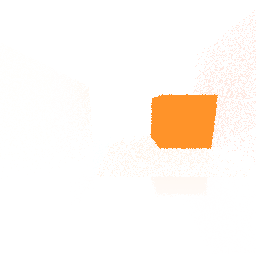
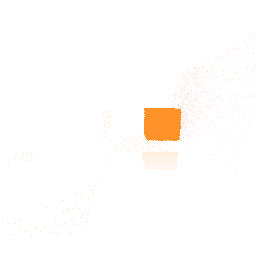
sync kinda works now with patched vulkano

Changed region(s): [[0.5312, 0.0625, 1.0, 0.625], [0.4062, 0.4375, 0.4375, 0.5]]

diff --git a/src/bin.rs b/src/bin.rs
@@ -1286,29 +1286,24 @@ void main() {
             camera_position: campos,
             camera_rotation: rotation,
         };
-
+        println!("start");
         let gpubuffer = AutoCommandBufferBuilder::primary_one_time_submit(
             //start
             device.clone(),
             queue.family(),
         )
-        .unwrap()
+            .unwrap()
         .dispatch(
             [(WIDTH / 8) as u32, (HEIGHT / 8) as u32, RPP as u32],
             compute_pipeline.clone(),
             (sets[image_num].clone()),
             gen_push_const(campos, right, up, forward, framenum),
         )
-        .unwrap()
-        .dispatch(
-            [(WIDTH / 8) as u32, (HEIGHT / 8) as u32, 1],
-            compute_pipeline2.clone(),
-            (set2[image_num].clone()),
-            (),
-        )
-        .unwrap()
+            .unwrap()
         .build()
-        .unwrap();
+            .unwrap();
+
+        println!("end");
 
         let prefuture = previous_frame_end
             .take()
@@ -1316,7 +1311,9 @@ void main() {
             .then_execute(queue.clone(), gpubuffer)
             .unwrap();
 
-        prefuture.flush();
+        //prefuture.flush();
+
+        //std::thread::sleep_ms(1000);
 
         let cpubuffer = cpurend.finish_render(
             //finish
@@ -1332,7 +1329,7 @@ void main() {
         tempsets.push(
             set3pool
                 .next()
-                .add_image(cpuimages[image_num].clone())
+                .add_image(imagestep2[image_num].clone())
                 .unwrap()
                 .build()
                 .unwrap(),
@@ -1340,23 +1337,25 @@ void main() {
         tempsets.push(
             set3pool
                 .next()
-                .add_image(imagestep2[image_num].clone())
+                .add_image(cpuimages[image_num].clone())
                 .unwrap()
                 .build()
                 .unwrap(),
         );
 
         let mut rppsets = Vec::new();
-        rppsets.push(cpurend.rpp);
         rppsets.push(RPP);
+        rppsets.push(0);
         let mut sofarRPP = 0;
 
         let mut command_buffer_build = unsafe {
             AutoCommandBufferBuilder::primary_one_time_submit(device.clone(), queue.family())
                 .unwrap()
-                .clear_color_image(
-                    cpuimages[image_num].clone(),
-                    vulkano::format::ClearValue::Float([0.0; 4]),
+                .dispatch(
+                    [(WIDTH / 8) as u32, (HEIGHT / 8) as u32, 1],
+                    compute_pipeline2.clone(),
+                    (set2[image_num].clone()),
+                    (),
                 )
                 .unwrap()
                 .execute_commands(cpubuffer)
